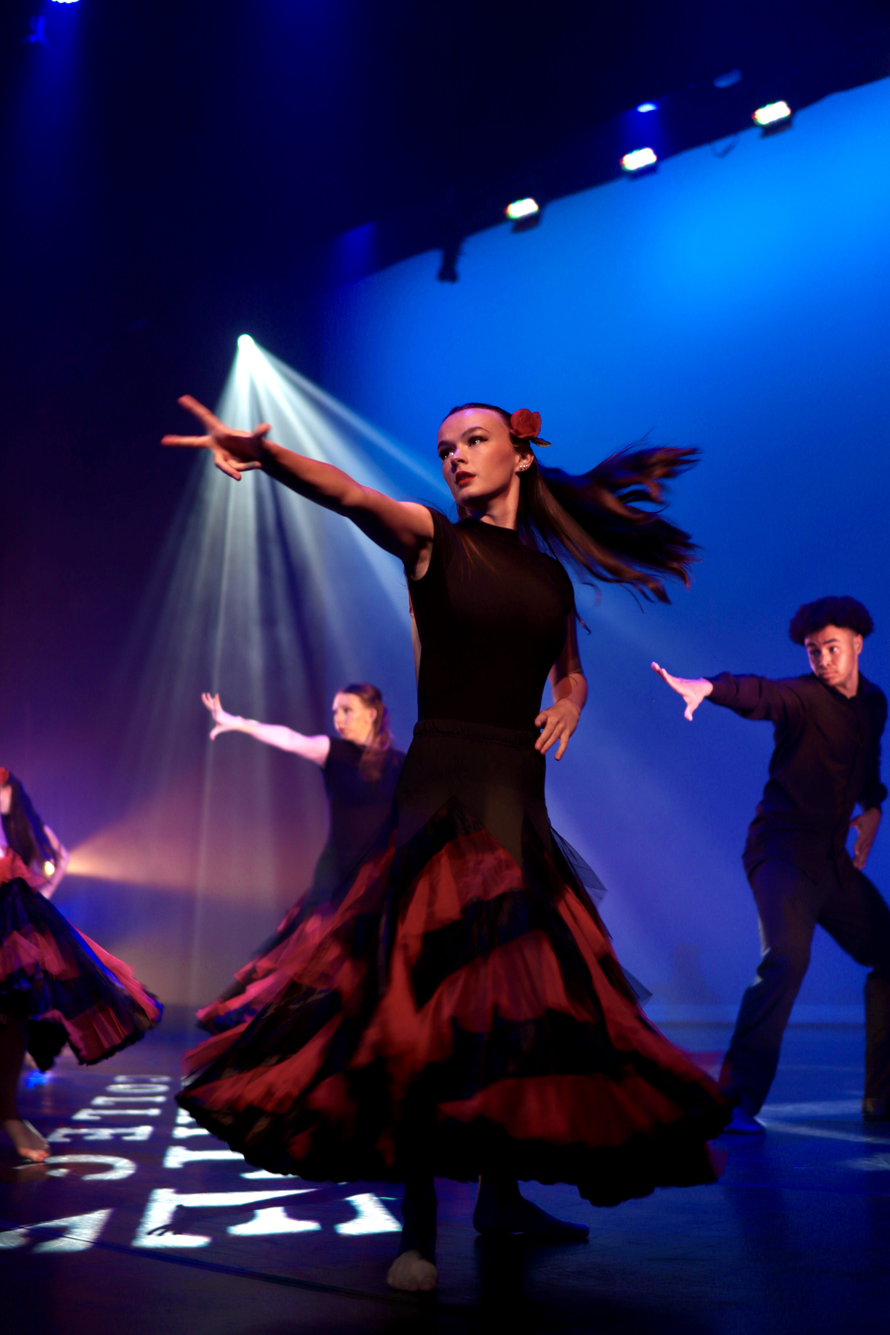
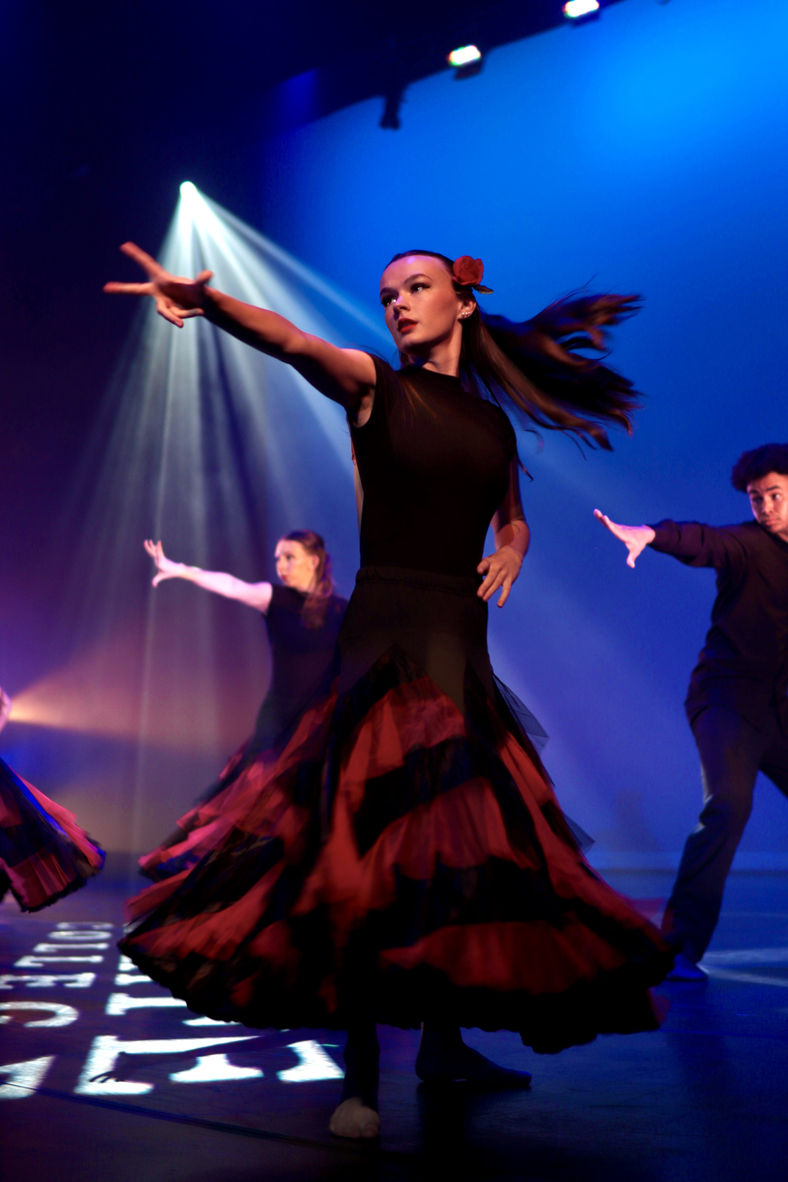
index update
added index assets and applied them to index html

diff --git a/index.html b/index.html
@@ -64,10 +64,10 @@
 						<!-- One -->
 							<section id="one" class="wrapper spotlight style1">
 								<div class="inner">
-									<a href="#" class="image"><img src="images/pic01.jpg" alt="" /></a>
+									<a href="#" class="image"><img src="/assets/header/indexheader2.jpeg" alt="" /></a>
 									<div class="content">
-										<h2 class="major">Graduation Portraits</h2>
-										<p>Capture the moment of accomplishment with a professional touch. My graduation portraits celebrate your hard work and success, offering a personalized experience to mark this milestone in your life. I bring out your best in every shot.</p>
+										<h2 class="major">Film & Video Productions</h2>
+										<p>From short films to fill-length features and commercials, my film and video productions capture the spirit of storytelling through vibrant visuals and impactful narratives. Whether you're looking for cinematic storytelling or a polished promotional video, my work combines creativity with the expertise to bring your ideas to life on the screen.</p>
 										<a href="#" class="special">Learn more</a>
 									</div>
 								</div>
@@ -76,10 +76,10 @@
 						<!-- Two -->
 							<section id="two" class="wrapper alt spotlight style2">
 								<div class="inner">
-									<a href="#" class="image"><img src="images/pic02.jpg" alt="" /></a>
+									<a href="#" class="image"><img src="/assets/graduation/graduation (1).JPEG" alt="" /></a>
 									<div class="content">
-										<h2 class="major">Creative Photography</h2>
-										<p>In this portfolio, I showcase a variety of creative photography projects, from dynamic dance performances to imaginative portraits.</p>
+										<h2 class="major">Graduation Portraits</h2>
+										<p>Capture the moment of accomplishment with a professional touch. My graduation portraits celebrate your hard work and success, offering a personalized experience to mark this milestone in your life. I bring out your best in every shot.</p>
 										<a href="#" class="special">Learn more</a>
 									</div>
 								</div>
@@ -88,10 +88,10 @@
 						<!-- Three -->
 							<section id="three" class="wrapper spotlight style3">
 								<div class="inner">
-									<a href="#" class="image"><img src="images/pic03.jpg" alt="" /></a>
+									<a href="#" class="image"><img src="/assets/Performance/performance (14).JPG" alt="" /></a>
 									<div class="content">
-										<h2 class="major">Film & Video Productions</h2>
-										<p>From short films to fill-length features and commercials, my film and video productions capture the spirit of storytelling through vibrant visuals and impactful narratives. Whether you're looking for cinematic storytelling or a polished promotional video, my work combines creativity with the expertise to bring your ideas to life on the screen.</p>
+										<h2 class="major">Creative Photography</h2>
+										<p>In this portfolio, I showcase a variety of creative photography projects, from dynamic dance performances to imaginative portraits.</p>
 										<a href="#" class="special">Learn more</a>
 									</div>
 								</div>
@@ -104,25 +104,25 @@
 									<p>A look at the process, inspiration, and creative tools that shape our work across film and photography</p>
 									<section class="features">
 										<article>
-											<a href="#" class="image"><img src="images/pic04.jpg" alt="" /></a>
+											<a href="#" class="image"><img src="/assets/header/indexfit1.jpg" alt="" /></a>
 											<h3 class="major">Behind the Lens</h3>
 											<p>A look at the process of art. where planning, lighting, and mastery come together to craft a final image.</p>
 											<a href="#" class="special">Learn more</a>
 										</article>
 										<article>
-											<a href="#" class="image"><img src="images/pic05.jpg" alt="" /></a>
+											<a href="#" class="image"><img src="/assets/header/indexfit2.jpg" alt="" /></a>
 											<h3 class="major">Client Experience</h3>
 											<p>From first contact to final delivery, here's what it's like working with Sethirl Media.</p>
 											<a href="#" class="special">Learn more</a>
 										</article>
 										<article>
-											<a href="#" class="image"><img src="images/pic06.jpg" alt="" /></a>
+											<a href="#" class="image"><img src="/assets/header/indexfit3.jpg" alt="" /></a>
 											<h3 class="major">Gear & Workflow</h3>
 											<p>Curated tools and an efficient workflow help transform ideas into cinematic visuals and lasting impressions.</p>
 											<a href="#" class="special">Learn more</a>
 										</article>
 										<article>
-											<a href="#" class="image"><img src="images/pic07.jpg" alt="" /></a>
+											<a href="#" class="image"><img src="/assets/header/indexfit4.jpg" alt="" /></a>
 											<h3 class="major">Creative Philosophy</h3>
 											<p>Create with purpose. Every shot, every frame, every moment.</p>
 											<a href="#" class="special">Learn more</a>
@@ -167,7 +167,7 @@
 								<li class="icon brands fa-instagram"><a href="#">instagram.com/sethirlmedia-tld</a></li>
 							</ul>
 							<ul class="copyright">
-								<li>&copy; 2025 SethIRL Media. All rights reserved.</li><li>Design: <a href="http://html5up.net">HTML5 UP</a></li>
+								<li>&copy; 2025 SethIRL Media. All rights reserved.</li>
 							</ul>
 						</div>
 					</section>

diff --git a/assets/css/main.css b/assets/css/main.css
@@ -4244,3 +4244,4 @@ input, select, textarea {
 		z-index: 3; /* Make sure it's above the video */
 	  }
 	  
+	  
